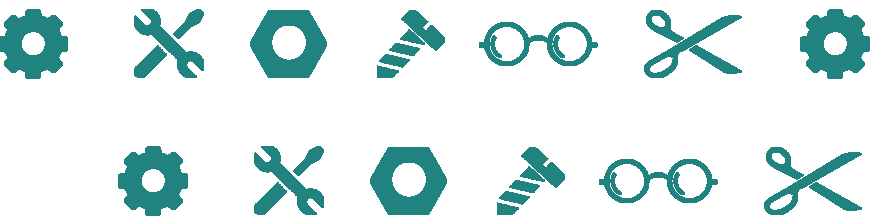
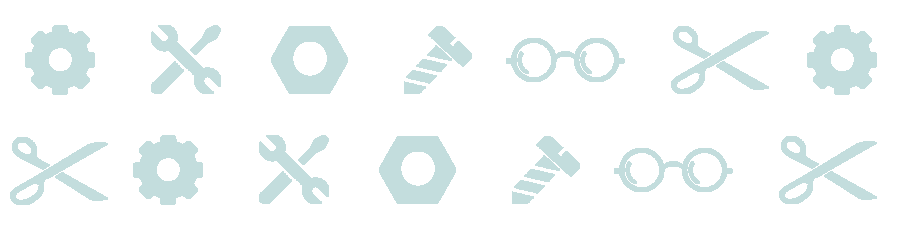
all parllax ended

diff --git a/app/public/style/blocks.tmp.css b/app/public/style/blocks.tmp.css
@@ -1,34 +1,34 @@
 @font-face{font-family:roboto-example;font-weight:400;font-style:normal;src:url(../fonts/RobotoRegular/RobotoRegular.eot);src:url(../fonts/RobotoRegular/RobotoRegular.eot?#iefix) format("embedded-opentype"),url(../fonts/RobotoRegular/RobotoRegular.woff) format("woff"),url(../fonts/RobotoRegular/RobotoRegular.ttf) format("truetype")}@font-face{font-family:roboto-example;font-weight:700;font-style:normal;src:url(../fonts/RobotoBold/RobotoBold.eot);src:url(../fonts/RobotoBold/RobotoBold.eot?#iefix) format("embedded-opentype"),url(../fonts/RobotoBold/RobotoBold.woff) format("woff"),url(../fonts/RobotoBold/RobotoBold.ttf) format("truetype")}
-.about{height:1000px!important;padding-bottom:100px;position:relative}
-.btn{color:#fff;background:#fc7753;text-transform:uppercase;text-decoration:none;font-weight:700;font-size:15px;border-radius:30px;-webkit-box-shadow:0 0 0 0 #656565;box-shadow:0 0 0 0 #656565;-webkit-transition:.2s;transition:.2s;padding:10px 30px}.btn:hover{background:#ff8b6c;-webkit-box-shadow:5px 5px 2px 0 #656565;box-shadow:5px 5px 2px 0 #656565}
+.about{height:1180px!important;padding-bottom:100px;position:relative;z-index:3}
+.btn{color:#fff;background:#fc7753;text-transform:uppercase;text-decoration:none;font-weight:700;font-size:15px;border-radius:30px;-webkit-box-shadow:0 0 0 0 #656565;box-shadow:0 0 0 0 #656565;-webkit-transition:.2s;transition:.2s;padding:10px 30px}.btn:hover{background:red;-webkit-box-shadow:0 3px 5px 0 rgba(0,0,0,.5);box-shadow:0 3px 5px 0 rgba(0,0,0,.5)}
 .card-site{text-align:center;background:#fff;max-width:270px;border-radius:20px;-webkit-box-shadow:0 0 5px 1px rgba(0,0,0,.3);box-shadow:0 0 5px 1px rgba(0,0,0,.3);padding-bottom:20px;position:relative;height:450px;margin:0 auto auto;-webkit-transition:.2s;transition:.2s}.card-site:hover{margin-top:-20px;-webkit-box-shadow:0 10px 30px 1px #000;box-shadow:0 10px 30px 1px #000}
 .contacts{display:-webkit-box;display:-ms-flexbox;display:flex;-webkit-box-pack:center;-ms-flex-pack:center;justify-content:center;-webkit-box-align:center;-ms-flex-align:center;align-items:center}
 .container{max-width:1170px;margin:auto;padding-left:20px;padding-right:20px}
 .examples{height:800px!important;z-index:10}@media only screen and (max-width:1120px){.examples{height:250vh!important}}@media only screen and (max-width:580px){.examples{height:400vh!important}}
-.footer{background-color:#171616;height:200px!important}
 .hamburger{display:none;width:60px;height:60px;position:fixed;right:20px}
+.footer{background-color:#171616;width:100%;height:30vh!important;z-index:5}
 .header{position:relative}@media only screen and (max-width:992px){.header{height:500px}}
 .introduction{padding-top:70px;color:#fff;text-align:center}
 .layout{width:100%;height:100%;position:absolute;z-index:0;top:0;left:0}
 .logo{-webkit-box-flex:1;-ms-flex:1;flex:1}
 .menu{display:-webkit-box;display:-ms-flexbox;display:flex;-ms-flex-flow:wrap;flex-flow:wrap}
 .menu-mobile{background:#252837;width:100%;height:100%;position:fixed;left:0;top:-120%;bottom:0;right:0;z-index:5;text-align:center;padding-top:80px;-webkit-transition:.2s;transition:.2s;display:block;margin-top:-20px}
-.page{font-family:roboto-example,sans-serif;margin:0}
+.page{font-family:roboto-example,sans-serif;margin:0;background:#171616}
 .parllax{height:500px;height:100vh;overflow-x:hidden;overflow-y:auto;-webkit-perspective:300px;perspective:300px}
 .skills{height:600px!important}
 .spell{display:-webkit-box;display:-ms-flexbox;display:flex;-webkit-box-orient:horizontal;-webkit-box-direction:normal;-ms-flex-flow:wrap row;flex-flow:wrap row;background:#fff;border-radius:20px;-webkit-box-shadow:1px 1px 1px 1px rgba(0,0,0,.5);box-shadow:1px 1px 1px 1px rgba(0,0,0,.5);positon:relative;max-width:450px;-webkit-box-pack:center;-ms-flex-pack:center;justify-content:center;-webkit-box-align:center;-ms-flex-align:center;align-items:center;height:200px;padding-left:10px;padding-right:10px}@media only screen and (max-width:480px){.skill{height:100%}}
-.targets{poszition:relative;padding-bottom:100px;height:1200px!important}@media only screen and (max-width:480px){.targets{background-size:200% 80%}}
+.targets{z-index:2;poszition:relative;padding-bottom:100px;height:1200px!important}@media only screen and (max-width:480px){.targets{background-size:200% 80%}}
 @media only screen and (max-width:1090px){.tech{height:150vh!important}}@media only screen and (max-width:565px){.tech{height:200vh!important}}
 .tool{text-align:center;color:#fff;background:rgba(0,0,0,.5);border-radius:20px;width:250px;-webkit-transition:.2s;transition:.2s;padding-top:20px;padding-bottom:20px;position:relative}.tool:hover .tool_overlay{display:block;-webkit-transition:.2s;transition:.2s}
 .top-line{display:-webkit-box;display:-ms-flexbox;display:flex;-webkit-box-align:center;-ms-flex-align:center;align-items:center;-ms-flex-flow:wrap;flex-flow:wrap;padding-top:20px}
-.about__bg-color{background-color:#252837}
+.about__bg-color{background-color:#373c54}
 .about__contacts{padding-top:70px}
 .about__img{border:3px solid #fff;border-radius:100%;height:150px;display:block;margin:50px auto auto}
 .about__info{padding-top:70px}
 .about__inner{z-index:2;position:relative}
 .about__introduction{padding-top:100px}
-.about__layout_1{background:url(../img/about__stars.png) no-repeat;position:absolute;height:100%;width:100%;background-size:100%}
-.about__layout_2{background:url(../img/about__bg.png) bottom no-repeat;background-size:100% 100%;height:100%;width:100%;position:absolute;bottom:0}
+.about__layout_1{background:url(../img/stars__bg.png);position:absolute;height:100%;width:100%;background-size:100%}
+.about__layout_2{background:url(../img/about__bg.png) bottom no-repeat;background-size:200%}
 .about__line{height:3px;max-width:200px;background:#fff;margin:30px auto 0}
 .about__paragraph{color:#fff;max-width:700px;text-align:center;margin:auto}
 .about__right{text-align:left}
@@ -37,21 +37,25 @@
 .card-site__img{width:100%;positon:relative;border-radius:20px 20px 0 0}
 .card-site__subtitle{margin:0;color:#666}
 .card-site__title{padding-top:30px}
-.contacts__link{text-decoration:none;font-size:50px;color:#000;-ms-flex-preferred-size:60px;flex-basis:60px;text-align:center}.contacts__link:hover{color:#fc7753}
-.examples__bg{background:url(../img/examples__bg.png);background-size:100%}
+.contacts__link{text-decoration:none;font-size:50px;color:#29ab78;-ms-flex-preferred-size:60px;flex-basis:60px;text-align:center}.contacts__link:hover{color:#fc7753}
+.examples__bg{background:url(../img/stars__bg.png);background-size:100%}
 .examples__bg-color{background-color:#2E355C}
 .examples__card-site-block{padding-top:100px;padding-bottom:100px;display:-webkit-box;display:-ms-flexbox;display:flex;-ms-flex-flow:wrap;flex-flow:wrap;-webkit-box-pack:justify;-ms-flex-pack:justify;justify-content:space-between}
 .examples__card-site{margin-bottom:30px}
+@media only screen and (max-width:768px){.examples__img_1{height:30%}}@media only screen and (max-width:582px){.examples__img_1{height:17%}}
+.examples__img_2{height:90%;position:relative;margin-top:-100px;padding-right:100px}@media only screen and (max-width:1120px){.examples__img_2{height:50%}}@media only screen and (max-width:582px){.examples__img_2{height:30%;padding-right:0}}
 
-.footer__btn:hover{color:#fff;-webkit-box-shadow:none;box-shadow:none}@media only screen and (max-width:720px){.footer__btn{margin-top:20px;display:inline-block}}
+.examples__parllax_img_1{text-align:center;height:100%}
+.examples__parllax_img_2{text-align:right}
+.hamburger__bar{background:#fff;display:block;position:absolute;width:30px;height:3px;top:50%;left:50%;-webkit-transform:translate(-50%,-50%);transform:translate(-50%,-50%);-webkit-box-shadow:0 2px 5px rgba(0,0,0,.5);box-shadow:0 2px 5px rgba(0,0,0,.5);-webkit-transition:.2s;transition:.2s}.hamburger__bar:after,.hamburger__bar:before{content:'';position:absolute;width:30px;height:3px;background:#fff;-webkit-box-shadow:0 2px 5px rgba(0,0,0,.5);box-shadow:0 2px 5px rgba(0,0,0,.5);-webkit-transition:.2s;transition:.2s}.hamburger__bar:before{top:-10px}.hamburger__bar:after{top:10px}
+.hamburger_visible_true{display:block;z-index:6}
+.footer__btn:hover{color:#fff!important;-webkit-box-shadow:none;box-shadow:none;background:red}@media only screen and (max-width:720px){.footer__btn{margin-top:20px;display:inline-block}}
 .footer__inner{display:-webkit-box;display:-ms-flexbox;display:flex;-ms-flex-flow:wrap;flex-flow:wrap;padding-top:50px;padding-bottom:50px}@media only screen and (max-width:720px){.footer__inner{-webkit-box-orient:vertical;-webkit-box-direction:normal;-ms-flex-flow:wrap column;flex-flow:wrap column}}
-.footer__link{font-size:12px;font-weight:700}.footer__link:hover{color:#fc7753;border-bottom:none}
+.footer__link{font-size:12px;font-weight:700;border-bottom:none}.footer__link:hover{color:#fc7753;border-bottom:none!important}
 .footer__logo{max-width:100px}
 @media only screen and (max-width:720px){.footer__menu{-webkit-box-orient:vertical;-webkit-box-direction:normal;-ms-flex-flow:wrap column;flex-flow:wrap column;margin-left:-60px}}
 
 .footer__subtitle{color:#7a7a7a;font-weight:400;text-align:center;margin:0;padding-bottom:20px;font-size:10px}
-.hamburger__bar{background:#fff;display:block;position:absolute;width:30px;height:3px;top:50%;left:50%;-webkit-transform:translate(-50%,-50%);transform:translate(-50%,-50%);-webkit-box-shadow:0 2px 5px rgba(0,0,0,.5);box-shadow:0 2px 5px rgba(0,0,0,.5);-webkit-transition:.2s;transition:.2s}.hamburger__bar:after,.hamburger__bar:before{content:'';position:absolute;width:30px;height:3px;background:#fff;-webkit-box-shadow:0 2px 5px rgba(0,0,0,.5);box-shadow:0 2px 5px rgba(0,0,0,.5);-webkit-transition:.2s;transition:.2s}.hamburger__bar:before{top:-10px}.hamburger__bar:after{top:10px}
-.hamburger_visible_true{display:block;z-index:6}
 .header__bars{color:#fff;font-size:30px;cursor:pointer;display:none;position:fixed;right:20px;z-index:6;-webkit-transition:.2s;transition:.2s}.header__bars:hover{color:#fc7753}@media only screen and (max-width:992px){.header__bars{display:block}}
 .header__bg-color{background-color:#74D2DE}
 .header__btn{margin-top:50px;display:inline-block;z-index:3;positon:relative}
@@ -73,8 +77,8 @@
 .page__tech{z-index:3;position:relative}
 .parllax__group{position:relative;height:100vh;-webkit-transform-style:preserve-3d;transform-style:preserve-3d}
 .parllax__layer{position:absolute;top:0;right:0;bottom:0;left:0}
+.skills__img{background:url(../img/skills__bg.png);background-size:50%}
 .skills__bg-color{background-color:#73d2de}
-.skills__img{background:url(../img/skills__bg.png);background-size:800px 170px}
 .skills__inner{padding-top:100px;padding-bottom:100px}
 .skills__introduction{padding-top:100px}
 .spell__img{max-height:80px;display:inline-block}
@@ -95,8 +99,8 @@
 .targets__right{padding-right:10px;text-align:right}
 
 .targets__title{color:#fff;text-transform:uppercase;font-size:25px}
-.tech__bg-color{background:-webkit-gradient(linear,left top,left bottom,from(#ff7f7f),to(#97a6ef));background:linear-gradient(#ff7f7f,#97a6ef)}
 .tech__img{background:url(../img/tech_img_1.png) bottom no-repeat;background-size:100%}@media only screen and (max-width:472px){.tech__img{background:url(../img/tech_img_1.png) bottom no-repeat;background-size:300% 40%}}
+.tech__bg-color{background:-webkit-gradient(linear,left top,left bottom,from(#ff7f7f),to(#97a6ef));background:linear-gradient(#ff7f7f,#97a6ef)}
 .tech__img_2{position:absolute;bottom:-220px;width:100%}@media only screen and (max-width:472px){.tech__img_2{width:400%;bottom:-350px}}
 .tech__img_3{display:inline-block;margin:100px auto auto;height:80%}@media only screen and (max-width:992px){.tech__img_3{height:70%;margin-top:200px}}@media only screen and (max-width:560px){.tech__img_3{height:60%;margin-top:400px}}
 
@@ -107,8 +111,8 @@
 .tech__parllax_img_3{text-align:center}
 .tech__tool{margin-bottom:10px}
 
-.tool_overlay{position:absolute;left:0;top:0;height:100%;width:100%;border-radius:15px;display:none;background:rgba(252,119,83,.8);-webkit-transition:display 2s;transition:display 2s}
 .tool__title{font-size:36px;font-weight:700}
+.tool_overlay{position:absolute;left:0;top:0;height:100%;width:100%;border-radius:15px;display:none;background:rgba(252,119,83,.8);-webkit-transition:display 2s;transition:display 2s}
 .hamburger__bar_active_true{background:0 0;-webkit-box-shadow:0 2px 5px transparent;box-shadow:0 2px 5px transparent;transiton:.5s}.hamburger__bar_active_true:before{-webkit-transform:rotate(45deg);transform:rotate(45deg);top:0}.hamburger__bar_active_true:after{-webkit-transform:rotate(135deg);transform:rotate(135deg);top:0}
 .header__menu_mobile_true{background:#252837;width:100%;height:100%;position:fixed;left:0;top:0;bottom:0;right:0;z-index:5;text-align:center;padding-top:50px;transitio:.2s;display:block}
 .header__menu_visible_none{display:none}
@@ -127,8 +131,4 @@
 @media only screen and (max-width:992px){.targets__right_inner-align_left{text-align:left}}
 .targets__text_align_right{text-align:right}
 .tech__parllax_img_2_bg{bottom:-70%;height:60%;width:100%;background:#2E355C;position:absolute}@media only screen and (max-width:900px){.tech__parllax_img_2_bg{bottom:-80%}}
-@media only screen and (max-width:768px){.examples__img_1{height:30%}}@media only screen and (max-width:582px){.examples__img_1{height:17%}}
-.examples__parllax_img_1{text-align:center;height:100%}
-.examples__img_2{height:90%;position:relative;margin-top:-100px;padding-right:100px}@media only screen and (max-width:1120px){.examples__img_2{height:50%}}@media only screen and (max-width:582px){.examples__img_2{height:30%;padding-right:0}}
-.examples__parllax_img_2{text-align:right}
 /*# sourceMappingURL=blocks.tmp.css.map */

diff --git a/app/index.html b/app/index.html
@@ -141,7 +141,7 @@
 			<div class="examples__parllax_img_1 parllax__layer parllax__layer_fore">
 				<img class="examples__img_1" src="img/examples__bg_3.png" alt="">
 			</div>
-			<div class="examples__parllax_img_2 parllax__layer parllax__layer_foreup">
+			<div class="examples__parllax_img_1 parllax__layer parllax__layer_foreup">
 				<img class="examples__img_2" src="img/examples__bg_4.png" alt="">
 			</div>
 			<div class="parllax__layer parllax__layer_foreupsuper">
@@ -193,7 +193,7 @@
 			<section class="skills parllax__group">
 				<!-- intro -->
 				<div class="skills__bg-color parllax__layer parllax__layer_base"></div>
-				<div class="skills__img parllax__layer parllax__layer_fore"></div>
+				<div class="skills__img parllax__layer parllax__layer_base"></div>
 				<div class="parllax__layer parllax__layer_foreup">
 				<div class="introduction skills__introduction">
 					<h2 class="introduction__title">Навыки</h2>
@@ -362,11 +362,12 @@
 <!-- end parllax -->
 			<!-- about -->
 			<section class="about parllax__group">
-				<div class="about__bg-color parllax__layer parllax__layer_base"></div>	
-				<div class="about__layout_1 parllax__layer parllax__layer_fore"></div>	
+				<div class="about__bg-color parllax__layer parllax__layer_base"></div>
 				<div class="about__layout_2 parllax__layer parllax__layer_base"></div>	
+				<div class="about__layout_1 parllax__layer parllax__layer_fore"></div>	
+					
 				<!-- intro -->
-				<div class="about__inner parllax__layer parllax__layer_foreupsuper">	
+				<div class="about__inner parllax__layer parllax__layer_foreup">	
 				<div class="introduction about__introduction">
 					<h2 class="introduction__title">Обо мне</h2>
 					<div class="introduction__line "></div>
@@ -427,14 +428,20 @@
 							<a class="contacts__link" href="#"><i class="fab fa-whatsapp"></i></a>
 						</div>	
 				</div>
+				
 				</div>
 				<!-- end about__inner -->
-
+			
 			</section>
 			<!-- end about -->
-
-			<footer class="footer parllax__group">
-				<div class="parllax__layer parllax__layer_base">
+			
+			
+			
+<!-- end targets -->
+		
+		
+		<footer class="footer parllax__group">
+				
 				<div class="footer__inner container">
 					<div class="logo">
 						<img src="img/logo.png" alt="" class="logo__img footer__logo">
@@ -448,15 +455,12 @@
 					<li class="menu__item footer__menu-item"><a class="menu__link footer__link footer__btn btn" href="#">написать мне</a></li>
 
 				</ul>
-
+			
 				</div>
 				<h4 class="footer__subtitle">г. Санкт-Петербург 2018</h4>
 			</footer>
 			</div>
-<!-- end targets -->
-		</div>
-		</div>
-		<!-- end examples -->
+			</div>
 	<script src="js/libs.tmp.js"></script>
 	<script src="js/blocks.tmp.js"></script>
 	<!-- prodaction: <script src="js/scripts.js"></script>-->

diff --git a/app/public/index.html b/app/public/index.html
@@ -141,7 +141,7 @@
 			<div class="examples__parllax_img_1 parllax__layer parllax__layer_fore">
 				<img class="examples__img_1" src="img/examples__bg_3.png" alt="">
 			</div>
-			<div class="examples__parllax_img_2 parllax__layer parllax__layer_foreup">
+			<div class="examples__parllax_img_1 parllax__layer parllax__layer_foreup">
 				<img class="examples__img_2" src="img/examples__bg_4.png" alt="">
 			</div>
 			<div class="parllax__layer parllax__layer_foreupsuper">
@@ -193,7 +193,7 @@
 			<section class="skills parllax__group">
 				<!-- intro -->
 				<div class="skills__bg-color parllax__layer parllax__layer_base"></div>
-				<div class="skills__img parllax__layer parllax__layer_fore"></div>
+				<div class="skills__img parllax__layer parllax__layer_base"></div>
 				<div class="parllax__layer parllax__layer_foreup">
 				<div class="introduction skills__introduction">
 					<h2 class="introduction__title">Навыки</h2>
@@ -362,11 +362,12 @@
 <!-- end parllax -->
 			<!-- about -->
 			<section class="about parllax__group">
-				<div class="about__bg-color parllax__layer parllax__layer_base"></div>	
-				<div class="about__layout_1 parllax__layer parllax__layer_fore"></div>	
+				<div class="about__bg-color parllax__layer parllax__layer_base"></div>
 				<div class="about__layout_2 parllax__layer parllax__layer_base"></div>	
+				<div class="about__layout_1 parllax__layer parllax__layer_fore"></div>	
+					
 				<!-- intro -->
-				<div class="about__inner parllax__layer parllax__layer_foreupsuper">	
+				<div class="about__inner parllax__layer parllax__layer_foreup">	
 				<div class="introduction about__introduction">
 					<h2 class="introduction__title">Обо мне</h2>
 					<div class="introduction__line "></div>
@@ -427,14 +428,20 @@
 							<a class="contacts__link" href="#"><i class="fab fa-whatsapp"></i></a>
 						</div>	
 				</div>
+				
 				</div>
 				<!-- end about__inner -->
-
+			
 			</section>
 			<!-- end about -->
-
-			<footer class="footer parllax__group">
-				<div class="parllax__layer parllax__layer_base">
+			
+			
+			
+<!-- end targets -->
+		
+		
+		<footer class="footer parllax__group">
+				
 				<div class="footer__inner container">
 					<div class="logo">
 						<img src="img/logo.png" alt="" class="logo__img footer__logo">
@@ -448,15 +455,12 @@
 					<li class="menu__item footer__menu-item"><a class="menu__link footer__link footer__btn btn" href="#">написать мне</a></li>
 
 				</ul>
-
+			
 				</div>
 				<h4 class="footer__subtitle">г. Санкт-Петербург 2018</h4>
 			</footer>
 			</div>
-<!-- end targets -->
-		</div>
-		</div>
-		<!-- end examples -->
+			</div>
 	<script src="js/libs.tmp.js"></script>
 	<script src="js/blocks.tmp.js"></script>
 	<!-- prodaction: <script src="js/scripts.js"></script>-->

diff --git a/app/common.blocks/btn/btn.sass b/app/common.blocks/btn/btn.sass
@@ -13,7 +13,7 @@
 	box-shadow: 0 0 0 0 #656565
 	transition: .2s
 	&:hover
-		background: #ff8b6c
-		box-shadow: 5px 5px 2px 0px #656565
+		background: #FF0000
+		box-shadow: 0px 3px 5px 0px rgba(0,0,0,.5)
 		
 

diff --git a/app/common.blocks/about/__layout_2/about__layout_2.sass b/app/common.blocks/about/__layout_2/about__layout_2.sass
@@ -1,8 +1,4 @@
 .about__layout_2
 	background: url(../img/about__bg.png) no-repeat bottom
-	background-size: 100% 100%
+	background-size: 200% 
 	
-	height: 100%
-	width: 100%
-	position: absolute
-	bottom: 0 

diff --git a/app/common.blocks/footer/__link/footer__link.sass b/app/common.blocks/footer/__link/footer__link.sass
@@ -1,7 +1,9 @@
 .footer__link
 	font-size: 12px
 	font-weight: bold
+	border-bottom: none
 	&:hover
-		color: #fc7753
-		border-bottom: none
+		color: #fc7753 
+		border-bottom: none !important
+		
 		

diff --git a/app/common.blocks/skills/__img/skills__img.sass b/app/common.blocks/skills/__img/skills__img.sass
@@ -1,3 +1,6 @@
 .skills__img
 	background: url(../img/skills__bg.png)
-	background-size: 800px 170px
+	background-size: 30%
+@media only screen and(max-width:992px)
+.skills__img
+	background-size: 50%

diff --git a/app/common.blocks/footer/__btn/footer__btn.sass b/app/common.blocks/footer/__btn/footer__btn.sass
@@ -1,7 +1,8 @@
 .footer__btn
 	&:hover
-		color: #fff 
+		color: #fff !important
 		box-shadow: none
+		background: #FF0000
 @media only screen and(max-width: 720px)
 	.footer__btn
 		margin-top: 20px

diff --git a/app/common.blocks/about/__layout_1/about__layout_1.sass b/app/common.blocks/about/__layout_1/about__layout_1.sass
@@ -1,5 +1,5 @@
 .about__layout_1
-	background: url(../img/about__stars.png) no-repeat
+	background: url(../img/stars__bg.png) 
 	position: absolute
 	height: 100%
 	width: 100%

diff --git a/app/common.blocks/contacts/__link/contacts__link.sass b/app/common.blocks/contacts/__link/contacts__link.sass
@@ -1,7 +1,7 @@
 .contacts__link
 	text-decoration: none
 	font-size: 50px
-	color: #000
+	color: #29ab78
 	flex-basis: 60px
 	text-align: center
 	&:hover

diff --git a/app/common.blocks/about/about.sass b/app/common.blocks/about/about.sass
@@ -1,4 +1,5 @@
 .about
-	height: 1000px !important
+	height: 1180px !important
 	padding-bottom: 100px
 	position: relative
+	z-index: 3

diff --git a/app/common.blocks/examples/__bg/examples__bg.sass b/app/common.blocks/examples/__bg/examples__bg.sass
@@ -1,3 +1,3 @@
 .examples__bg
-	background: url(../img/examples__bg.png)
+	background: url(../img/stars__bg.png)
 	background-size: 100%
